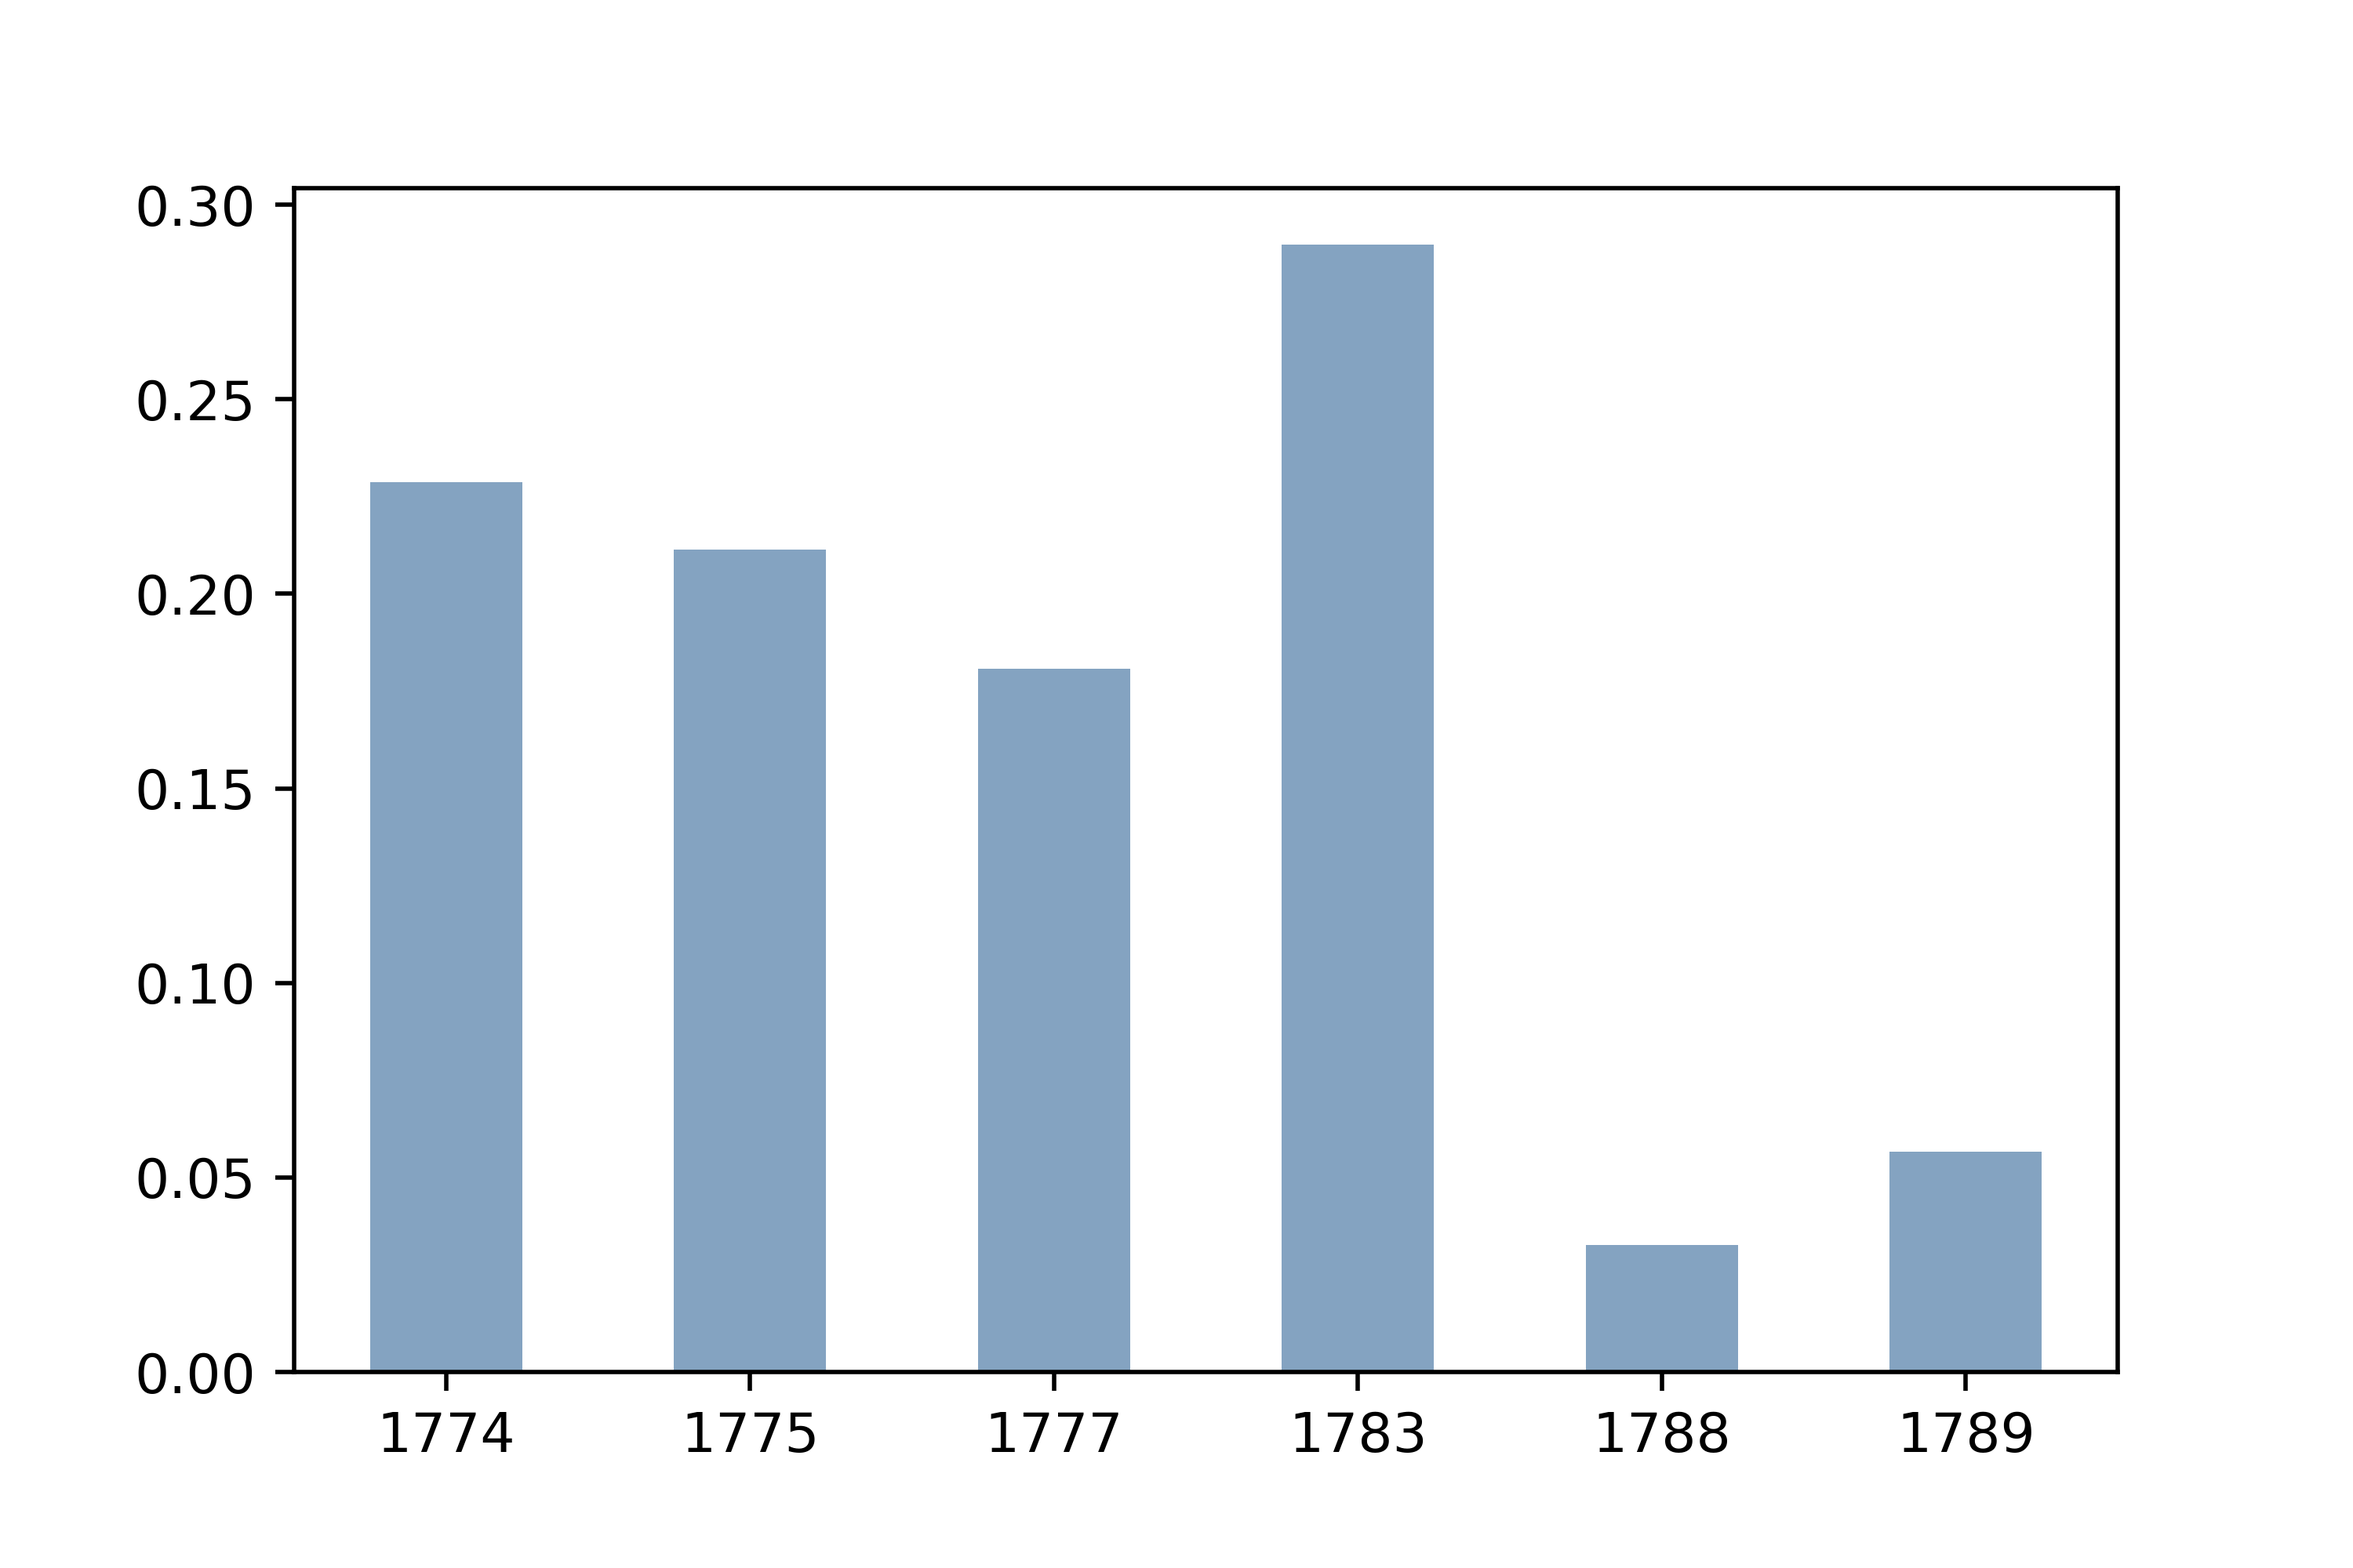
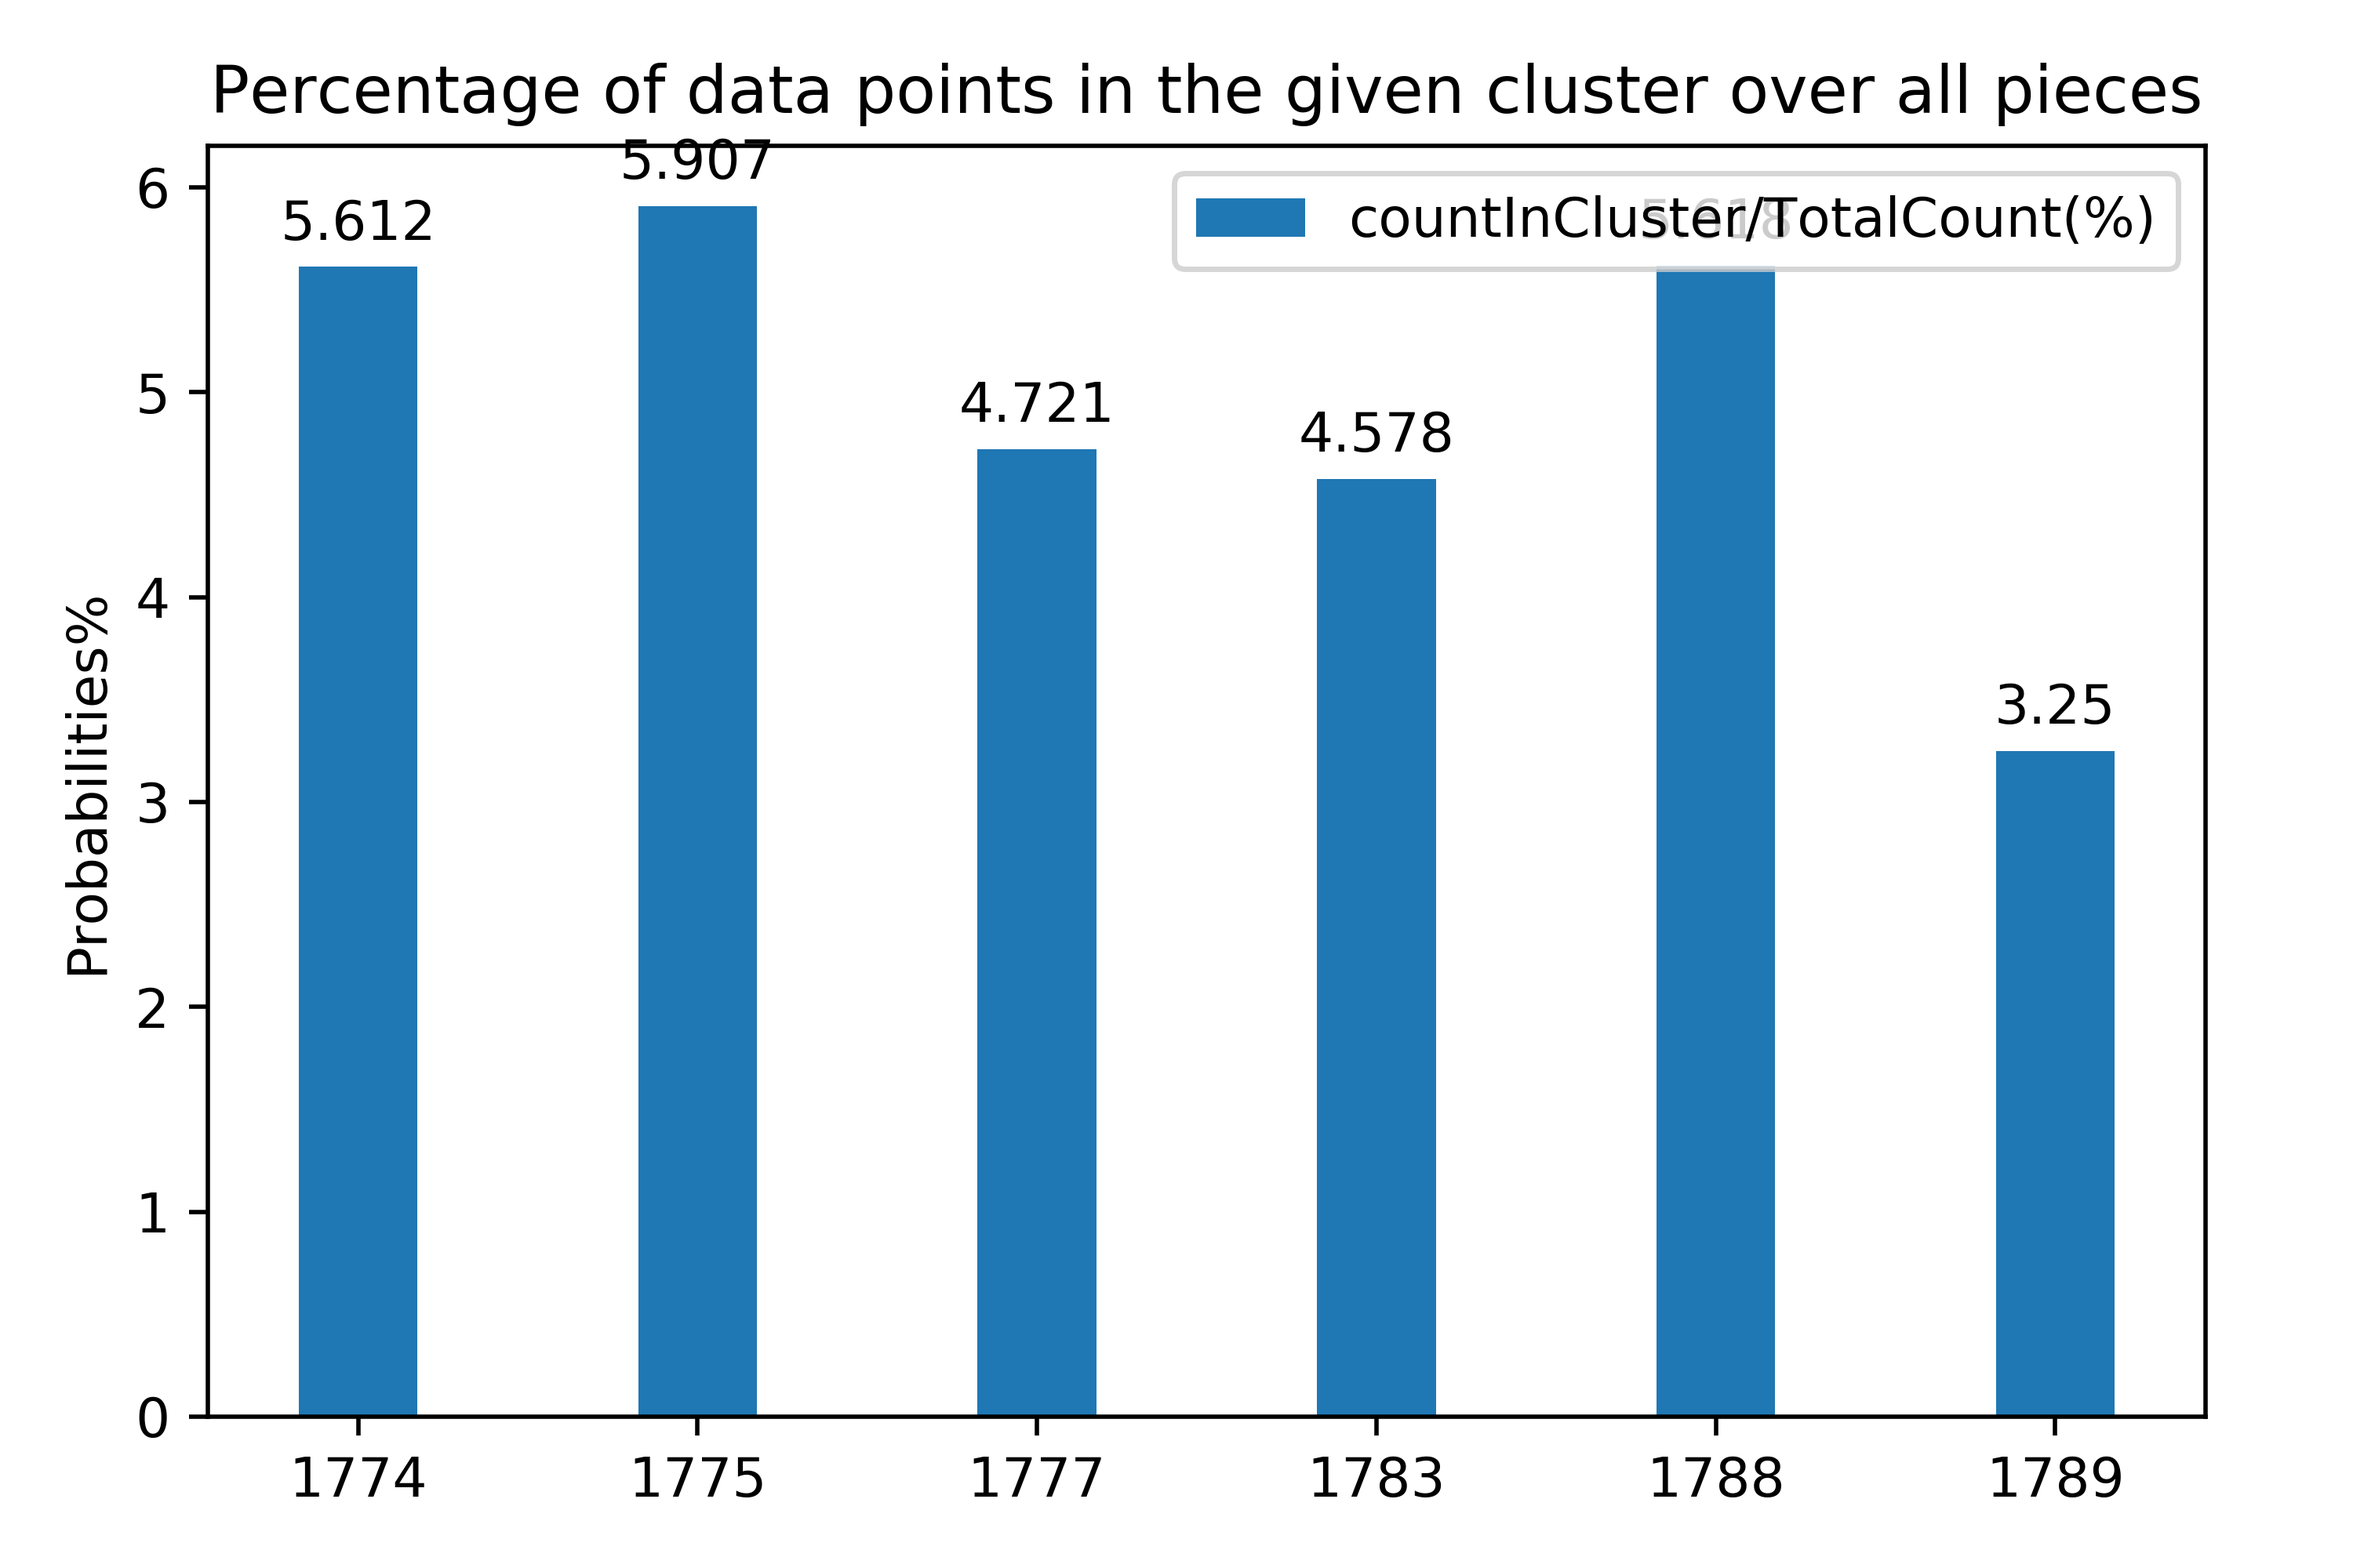
updated smallDF/clusterindex norm by year analysis

diff --git a/kMean.py b/kMean.py
@@ -487,9 +487,22 @@ def main():
     #retval = summation of squared distance of each centroid / count of element in the cluster 
     retVal = [retVal[i] for i in myorder]
     retCount =  [retCount[i] for i in myorder]
-
-            
-    
+    type(retVal)
+    plt.plot(retVal)
+    plt.ylabel('Sum of squared Euclidean distance / count of points\n(of Each cluster)')
+    plt.xlabel('Cluster index')
+    plt.xticks(np.arange(0,20,1))
+    plt.yticks(np.arange(1,2.5,.1))
+    figDir = os.path.join(cwd,"smallDF")
+    firDir = os.path.join(figDir,'distortion_plot')
+    plt.savefig(firDir+'.png',dpi=500)  
+    retValSeries = pd.Series(retVal, name = 'Tightness')
+    retCountSeries = pd.Series(retCount, name ='VectorCount')
+    outFile = pd.concat([retValSeries, retCountSeries],axis = 1)
+    cwd = os.getcwd()
+    fn = 'DistortionData.csv'
+    fn = os.path.join(cwd,fn)
+    outFile.to_csv(fn)
     
     
 
@@ -976,7 +989,41 @@ def main():
     st4 = [round(x / stCount[4] * 100, 2) for x in st4]
     st5 = [round(x / stCount[5] * 100, 2) for x in st5]
     
- 
+
+#======================== stage by cluster prob analysis begins================================
+    newDF=pd.DataFrame({ 'x':range(1,6)})
+
+    
+    dfdf['prob(%)'] = dfdf['countInCluster']/dfdf['TotalCount'] * 100
+    dfdf = dfdf.reset_index()
+    xx = np.arange(len(dfdf))
+    yy= dfdf['year'].tolist()
+    width = 0.35
+    tc = dfdf['TotalCount'].tolist()
+    cic = dfdf['countInCluster'].tolist()
+    p = dfdf['prob(%)'].tolist()
+    p = list(np.around(np.array(p),3))
+    fig, ax = plt.subplots()
+    rects1 = ax.bar(xx, p, width,label = 'countInCluster/TotalCount(%)')
+    
+    ax.set_ylabel('Probabilities%')
+    ax.set_title('Percentage of data points in the given cluster over all pieces')
+    ax.set_xticks(xx)
+    ax.set_xticklabels(yy)
+    ax.legend()
+    autolabel(rects1)
+    
+    fig.tight_layout()
+    #plt.show()
+    
+    plt.savefig(firDir+str(v)+'_norm_by_year.png',dpi=500)     
+    print("Current working cluster index is: "+str(v))
+    
+    cwd = os.getcwd()
+    fn = 'Index_'+str(v) + '_Cluster by year.csv'
+    fn = os.path.join(cwd,fn)
+    dfdf.to_csv(fn)
+    
     for x in range(0,20):
         probList = []
         probList.append(st1[x])
@@ -986,7 +1033,11 @@ def main():
         probList.append(st5[x])
         print(probList)
         
-        ddddd=pd.DataFrame({'x': range(1,6), 'y': probList })
+        ddddd=pd.DataFrame({ x: probList })
+        
+        newDF = pd.concat([newDF, ddddd],1)
+        newDF.set_index('x')
+        
         plt.cla()
         plt.plot( 'x', 'y', data=ddddd, linestyle='-', marker='o', color = color[x], label=str(x))
         plt.ylabel('Prob Of Cluster$(\%)$')
@@ -1062,7 +1113,7 @@ def main():
 
    
     
-# year / cluster        
+# year / cluster         = This is not good
     for v,smallDF in entireDF.groupby('year'):
         v = str(v)
         #print(smallDF['filename'].iloc[0])
@@ -1192,10 +1243,28 @@ def main():
     dfOut=os.path.join(cwd,"entireDF.csv")
     entireDF.to_csv(dfOut,index=None)
     
+#    ====================================== Year analysis begins=======================
     
+    yearCount = entireDF.groupby('year').count()[['index']]
+    yearCount.reset_index().set_index('year')
+    yearCount.rename(columns = {'index':'TotalCount'},inplace = True)
+    
+    yearCount.values[2][0]
+
     # x-axis: Year(in order), y-axis: norm dist, 20 charts
     # normal distributed 20 charts vs year per Chart
     # v = cluster index, smallDF = corresponding dataframe
+        
+    def autolabel(rects):
+        """Attach a text label above each bar in *rects*, displaying its height."""
+        for rect in rects:
+            height = rect.get_height()
+            ax.annotate('{}'.format(height),
+                        xy=(rect.get_x() + rect.get_width() / 2, height),
+                        xytext=(0, 3),  # 3 points vertical offset
+                        textcoords="offset points",
+                        ha='center', va='bottom')
+        
     for v, smallDF in entireDF.groupby('newCentroidIndex'):
         print(smallDF)
         print(v)
@@ -1216,23 +1285,47 @@ def main():
 #        Do not save this dataframe. only for plot
 #        smallDF.to_csv(final_dir, index = None)
 #        print("filename: \"{}\" has been successfully created :^D".format(filename))
-
+        
+    
         figDir = os.path.join(cwd,"smallDF")
         firDir = os.path.join(figDir,'ClusterIndex_')
-        smallDF.plot(linewidth=0.5)
-        smallNorm = smallDF.year.value_counts(normalize=True)
-        smallNorm = smallNorm.sort_index(axis=0, level=None, ascending=True, inplace=False, sort_remaining=True)
-        #smallNorm.plot.bar(y=[0], alpha=0.5, title='ClusterIndex_'+v)
-        smallNorm
-        plt.cla()
-        fig = plt.figure()
-        fig = smallNorm.plot.bar(rot=0, color=(0.2, 0.4, 0.6, 0.6))
-       
+        yearCountCluster = smallDF.groupby('year').count()[['index']]
+        yearCountCluster.rename(columns = {'index':'countInCluster'}, inplace = True)
+        dfdf = pd.concat([yearCount, yearCountCluster],1)
+        dfdf['prob(%)'] = dfdf['countInCluster']/dfdf['TotalCount'] * 100
+        dfdf = dfdf.reset_index()
+        xx = np.arange(len(dfdf))
+        yy= dfdf['year'].tolist()
+        width = 0.35
+        tc = dfdf['TotalCount'].tolist()
+        cic = dfdf['countInCluster'].tolist()
+        p = dfdf['prob(%)'].tolist()
+        p = list(np.around(np.array(p),3))
+        fig, ax = plt.subplots()
+        rects1 = ax.bar(xx, p, width,label = 'countInCluster/TotalCount(%)')
+        
+        ax.set_ylabel('Probabilities%')
+        ax.set_title('Percentage of data points in the given cluster over all pieces')
+        ax.set_xticks(xx)
+        ax.set_xticklabels(yy)
+        ax.legend()
+        autolabel(rects1)
+        
+        fig.tight_layout()
+        #plt.show()
+        
         plt.savefig(firDir+str(v)+'_norm_by_year.png',dpi=500)     
         print("Current working cluster index is: "+str(v))
-        print(smallDF.head(5))
+
+        cwd = os.getcwd()
+        fn = 'Index_'+str(v) + '_Cluster by year.csv'
+        fn = os.path.join(cwd,fn)
+        dfdf.to_csv(fn)
+    
         
         
+        
+        #=======Year analysis ends =======================
         
         
         
